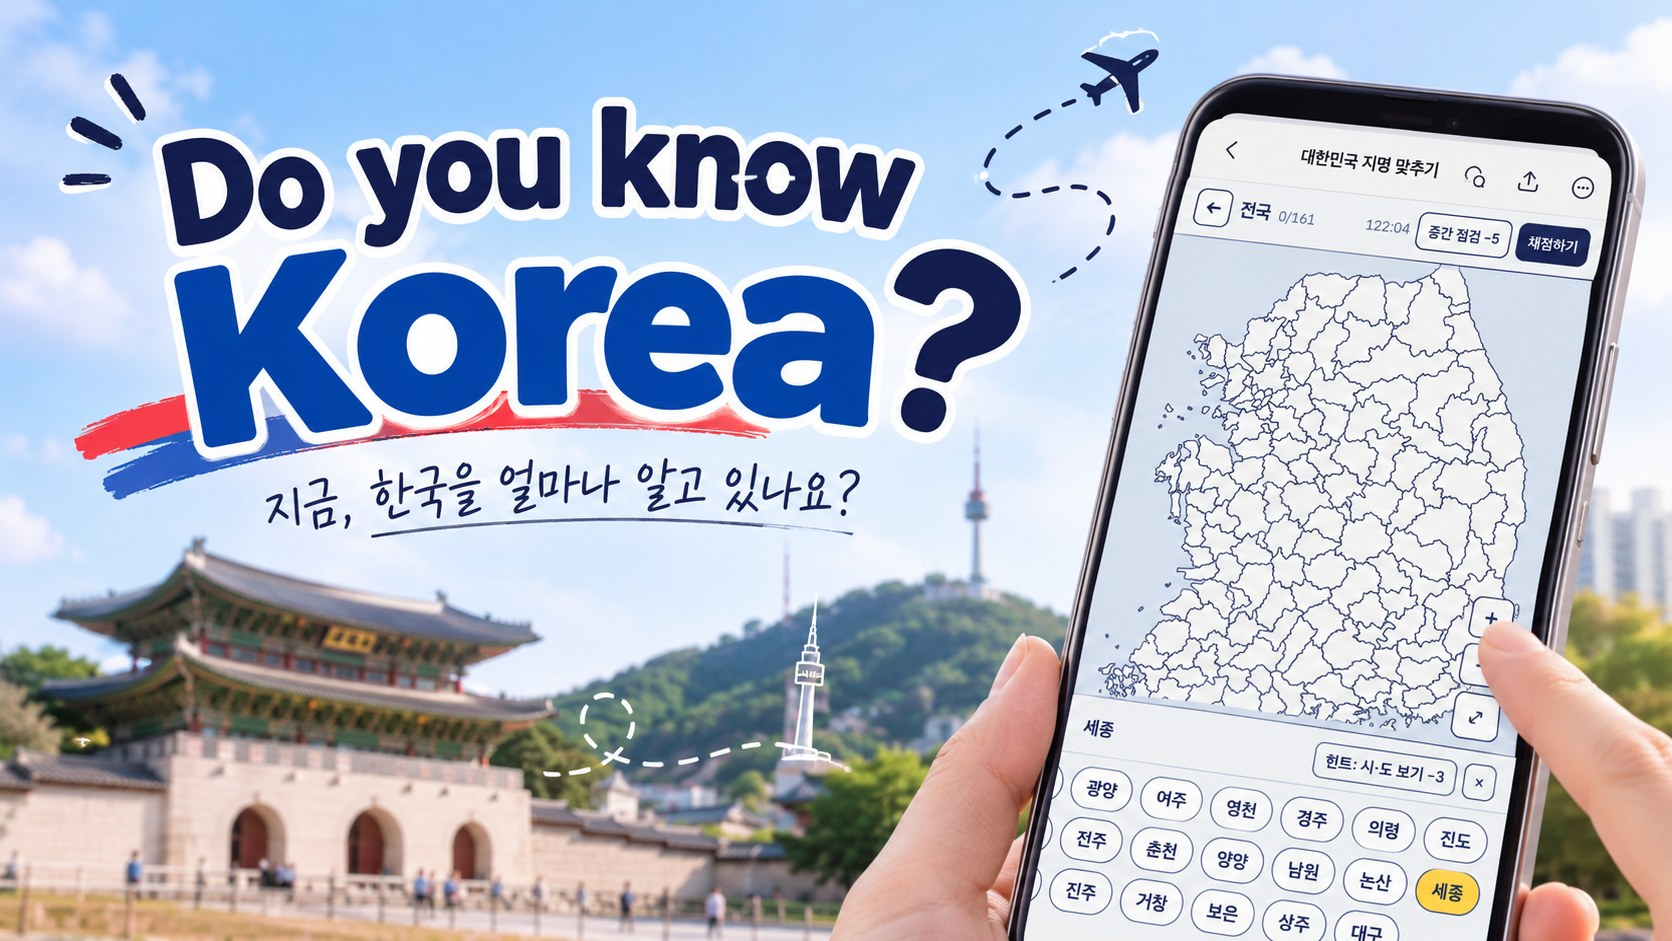
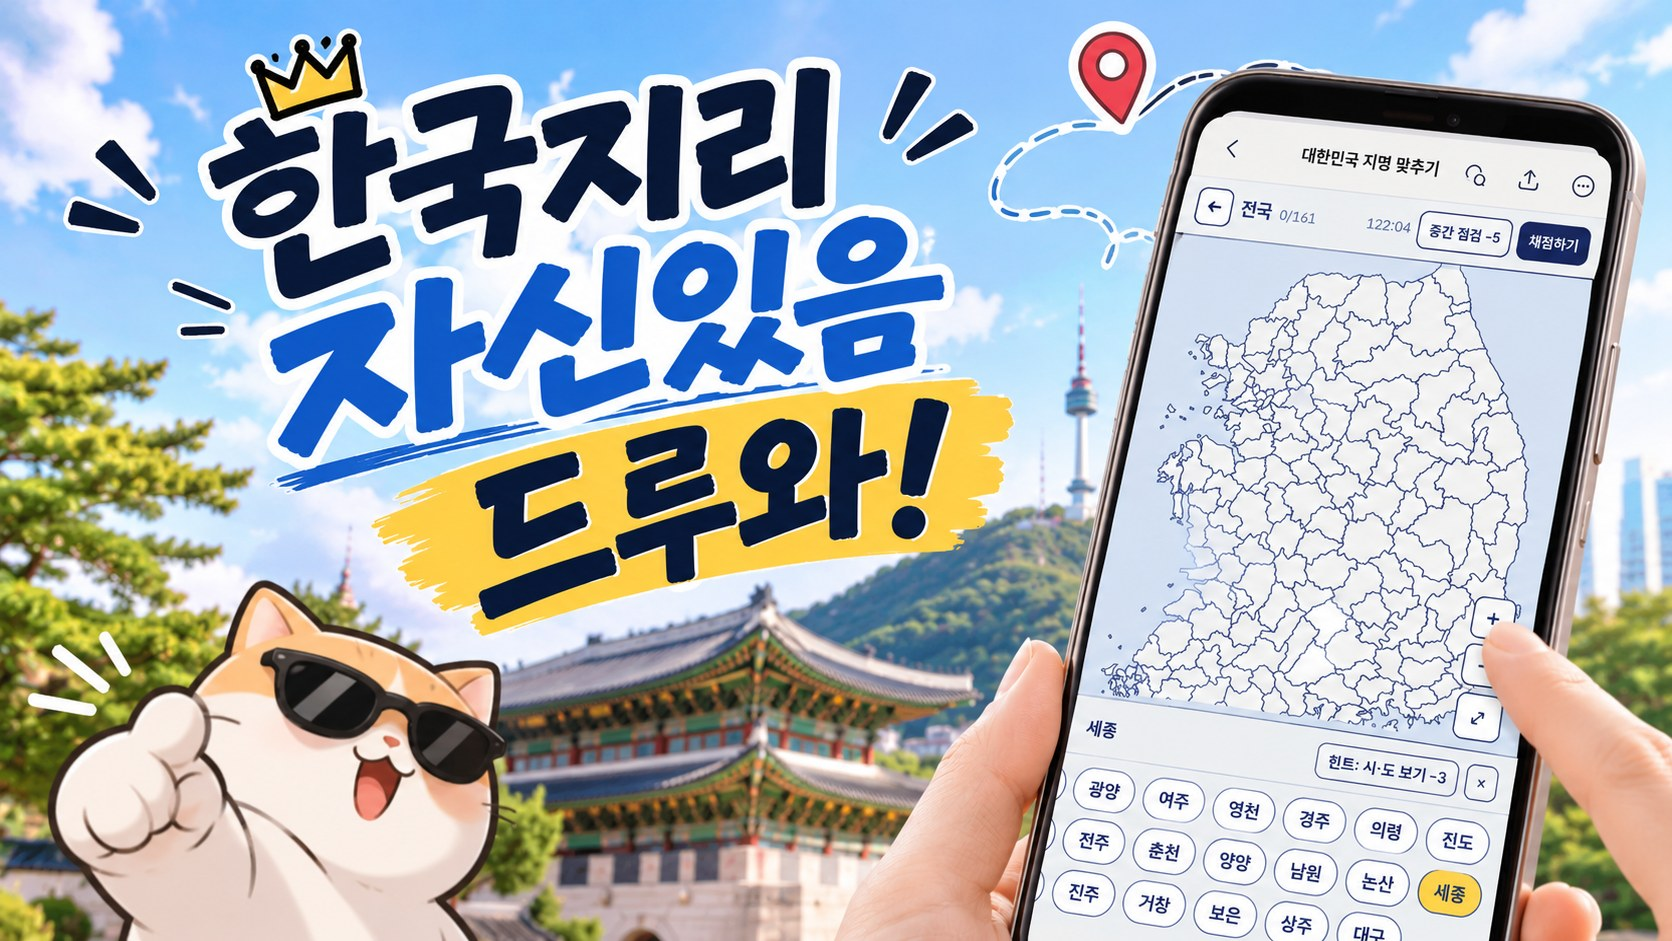
썸네일 교체, 주소를 jiriduckhoo.vercel.app로 변경
Claude-Session: https://claude.ai/code/session_016HYneNb8ZcBFFx5sQ3GHmk

diff --git a/index.html b/index.html
@@ -8,12 +8,12 @@
 <meta property="og:type" content="website">
 <meta property="og:title" content="대한민국 지명 맞추기">
 <meta property="og:description" content="한국, 어디까지 알고 있나요? 텅 빈 지도를 채워보세요!">
-<meta property="og:url" content="https://doyouknowkorea-geo.vercel.app/">
-<meta property="og:image" content="https://doyouknowkorea-geo.vercel.app/og-image.jpg">
+<meta property="og:url" content="https://jiriduckhoo.vercel.app/">
+<meta property="og:image" content="https://jiriduckhoo.vercel.app/og-image.jpg">
 <meta property="og:image:width" content="1672">
 <meta property="og:image:height" content="941">
 <meta name="twitter:card" content="summary_large_image">
-<meta name="twitter:image" content="https://doyouknowkorea-geo.vercel.app/og-image.jpg">
+<meta name="twitter:image" content="https://jiriduckhoo.vercel.app/og-image.jpg">
 <link rel="preconnect" href="https://fonts.googleapis.com">
 <link href="https://fonts.googleapis.com/css2?family=Do+Hyeon&family=IBM+Plex+Sans+KR:wght@400;500;600&display=swap" rel="stylesheet">
 <style>
@@ -633,7 +633,7 @@ function shareText(){
   return "대한민국 지명 맞추기 · "+S.st.n+(S.easy?"(쉬움)":"")+" · "+r.p+"점"+(r.rank?" (예상 상위 "+r.rank+"%)":"")+
     " · 정답 "+r.correct+"/"+r.scorable+" · "+fmtTime(S.secs)+" · 힌트 "+S.hints+"회";
 }
-var SITE="https://doyouknowkorea-geo.vercel.app/";
+var SITE="https://jiriduckhoo.vercel.app/";
 function rr(c,x,y,w,h,r){c.beginPath();c.moveTo(x+r,y);c.arcTo(x+w,y,x+w,y+h,r);c.arcTo(x+w,y+h,x,y+h,r);c.arcTo(x,y+h,x,y,r);c.arcTo(x,y,x+w,y,r);c.closePath()}
 function drawCard(){
   var r=S.result,W=1080,H=1350,cv=document.createElement("canvas");cv.width=W;cv.height=H;
